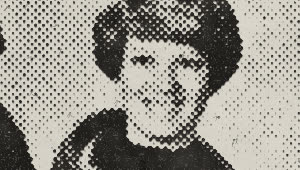
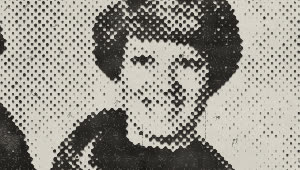
Imágenes › Periódico: la intensidad añade textura de rotativa y apenas cambia el tamaño del punto o la línea
Claude-Session: https://claude.ai/code/session_01VPHAR7jpTJpijXUd8K8hgP

diff --git a/plugin/js/image.js b/plugin/js/image.js
@@ -421,6 +421,38 @@
     C = blur(C, w, h, 0.45 + 0.6 * p.e);                                   // la tinta se abre en el papel
     for (i = 0; i < C.length; i++) C[i] = smooth(0.2, 0.72, C[i]);
     C = slur(C, w, h, (p.slur || 0) * S * 0.004, (p.double || 0) * S * 0.006, 0.15, 1);
+    // defectos de rotativa que crecen con la intensidad (casi nada al 0 %, mucho al 200 %):
+    var e = p.e, k = smooth(0.25, 1, e), sd = p.seed, n = im.n;
+    if (k > 0) {
+      // 1) tinta irregular a manchas grandes y bandas del rodillo
+      var M1 = noiseField(w, h, S * 0.1, sd + 3, true), M2 = noiseField(w, h, S * 0.025, sd + 5, false);
+      // 2) zonas con poca tinta (el punto se queda gris y roto) y velo de tinta en el papel
+      var Lw = noiseField(w, h, S * 0.05, sd + 7, true);
+      // 3) traspaso: la imagen del dorso se ve débil y en espejo
+      var y, x, i;
+      for (y = 0; y < h; y++) for (x = 0; x < w; x++) {
+        i = y * w + x; var c = C[i];
+        var band = 0.5 + 0.5 * Math.sin(y / (S * 0.035) * 6.283 + M1[i] * 3);
+        c *= 1 - k * (0.35 * smooth(0.45, 0.85, M1[i] * 0.7 + M2[i] * 0.3) + 0.12 * band);
+        var low = smooth(0.62, 0.78, Lw[i]) * k;
+        if (low > 0 && c > 0) c *= 1 - low * 0.7 * (hash(i * 7 + sd) < 0.5 ? 1 : 0.4);
+        var back = T[y * w + (w - 1 - x)] * 0.09 * k * (0.6 + 0.4 * M2[i]);
+        var veil = 0.04 * k * smooth(0.4, 0.8, M1[i]);
+        C[i] = Math.max(c, back, veil);
+      }
+      // 4) motas de tinta / suciedad (hickeys: punto con anillo claro) y arañazos verticales finos
+      var nH = Math.round(n / (S * S) * 260 * k * k);
+      for (var q = 0; q < nH; q++) {
+        var cx = hash(q * 31 + sd) * w, cy = hash(q * 17 + sd + 1) * h, r = Math.max(0.8, S * (0.0012 + 0.004 * Math.pow(hash(q * 13 + sd), 3)));
+        for (var yy = Math.floor(cy - r * 3); yy <= cy + r * 3; yy++) for (var xx = Math.floor(cx - r * 3); xx <= cx + r * 3; xx++) {
+          if (xx < 0 || yy < 0 || xx >= w || yy >= h) continue; var d = Math.sqrt((xx - cx) * (xx - cx) + (yy - cy) * (yy - cy)) / r, j = yy * w + xx;
+          if (d < 1) C[j] = Math.max(C[j], 0.9); else if (d < 2.6 && hash(q) < 0.5) C[j] *= 1 - 0.85 * smooth(2.6, 1.6, d);
+        }
+      }
+      var nS = Math.round(w / S * 6 * k);
+      for (var q2 = 0; q2 < nS; q2++) { var sx = Math.floor(hash(q2 * 91 + sd) * w), y0 = Math.floor(hash(q2 * 7 + sd) * h * 0.5), y1 = y0 + Math.floor(h * (0.2 + 0.6 * hash(q2 * 3 + sd))), wt = hash(q2 + sd) < 0.5;
+        for (y = y0; y < Math.min(h, y1); y++) { i = y * w + sx; C[i] = wt ? C[i] * 0.15 : Math.max(C[i], 0.5 * hash(i)); } }
+    }
     return [{ cov: defects(C, im, p, 0, p.seed), ink: p.inks[0] }];
   };
 
@@ -674,7 +706,7 @@
     p.e = e;
     var f = Math.pow(2 * e, 1.5);                                          // 0 → 0 · 0,5 → 1 · 1 → 2,8
     DEFECTS.forEach(function (k) { if (typeof p[k] === 'number') p[k] = Math.min(2.5, p[k] * f); });
-    if (p.lines > 0) p.lines = p.lines * Math.pow(2, (0.5 - e) * 2.6);    // ×2,5 más fina … ×2,5 más gruesa
+    if (p.lines > 0) p.lines = p.lines * Math.pow(2, (0.5 - e) * 2.6 * (p.lineK == null ? 1 : p.lineK));    // ×2,5 más fina … ×2,5 más gruesa
     if (typeof p.px === 'number') p.px = p.px * Math.pow(2, (e - 0.5) * 3);
     if (typeof p.gain === 'number') p.gain = p.gain * (0.3 + 1.1 * e);
     p.clarity = (p.clarity == null ? 0.3 : p.clarity) * (0.3 + 1.4 * e);
@@ -712,9 +744,9 @@
     { id: 'news', name: 'Periódico', desc: 'Trama de puntos de una tinta en papel de periódico: las luces pierden el punto, los medios engordan, las sombras se empastan; el punto se corre y a veces se dobla.',
       palettes: [{ name: 'Tinta de periódico', inks: ['#262423'] }, RD, BL], keys: ['lines', 'gain', 'slur', 'contrast', 'detail', 'mottle', 'grain'],
       variants: [
-        { id: 'periodico', name: 'Periódico', p: { kind: 'news', lines: 95, shape: 'round', gain: 0.35, detail: 0.35, clarity: 0.35, mottle: 0.3, grain: 0.25, slur: 0.3, double: 0.15, paper: 'news' } },
-        { id: 'gruesa', name: 'Puntos gordos', p: { kind: 'news', lines: 38, shape: 'round', gain: 0.2, detail: 0.4, clarity: 0.4, contrast: 0.15, mottle: 0.15, grain: 0.15 } },
-        { id: 'lineas', name: 'Trama de líneas', p: { kind: 'news', lines: 70, shape: 'line', angle: 30, gain: 0.15, detail: 0.35, clarity: 0.35, mottle: 0.2, grain: 0.15 } }
+        { id: 'periodico', name: 'Periódico', p: { kind: 'news', lineK: 0.35, lines: 95, shape: 'round', gain: 0.35, detail: 0.35, clarity: 0.35, mottle: 0.3, grain: 0.25, slur: 0.3, double: 0.15, paper: 'news' } },
+        { id: 'gruesa', name: 'Puntos gordos', p: { kind: 'news', lineK: 0.35, lines: 38, shape: 'round', gain: 0.2, detail: 0.4, clarity: 0.4, contrast: 0.15, mottle: 0.15, grain: 0.15 } },
+        { id: 'lineas', name: 'Trama de líneas', p: { kind: 'news', lineK: 0.35, lines: 70, shape: 'line', angle: 30, gain: 0.15, detail: 0.35, clarity: 0.35, mottle: 0.2, grain: 0.15 } }
       ] },
     { id: 'tone', name: 'Duotono · Tritono', desc: 'La foto en 2 o 3 tintas planas: la oscura lleva las sombras y la clara los medios y las luces, cada una con su ángulo de trama (roseta); o en tono continuo sin trama.',
       palettes: [{ name: 'Negro + sepia', inks: ['#1a1716', '#8a6a4a', '#c9ad86'] }, { name: 'Azul noche', inks: ['#141a2b', '#3d5a80', '#98c1d9'] }, { name: 'Negro + rojo', inks: ['#151515', '#c0392b', '#f0b27a'] }],

diff --git a/CONTEXTO.md b/CONTEXTO.md
@@ -135,6 +135,7 @@ Todas las gotas salen del banco `plugin/drips`. El motor usa `prepareDrips`, `pi
 ### En curso (sin empaquetar; el usuario pidió no enviar el .ccx todavía)
 
 - Imágenes › Fotocopia punk: el umbral se compara con ruido de tóner (`tgrain`): blancos y negros nítidos, medios tonos en grano fino; nitidez fina antes del umbral.
+- Periódico (las tres variantes): `lineK 0.35`, así la intensidad cambia poco el tamaño del punto o de la línea. A cambio añade textura de rotativa que crece con `e`: tinta irregular, bandas, zonas sin tinta, traspaso del dorso, velo, motas con anillo y arañazos.
 - Copia de copia: `smear` (franjas movidas con estela horizontal) y `blots` (borrones grises).
 - Las tres fotocopias se diferencian así:
   - **Umbral duro:** negros macizos, más contraste y poco grano.
